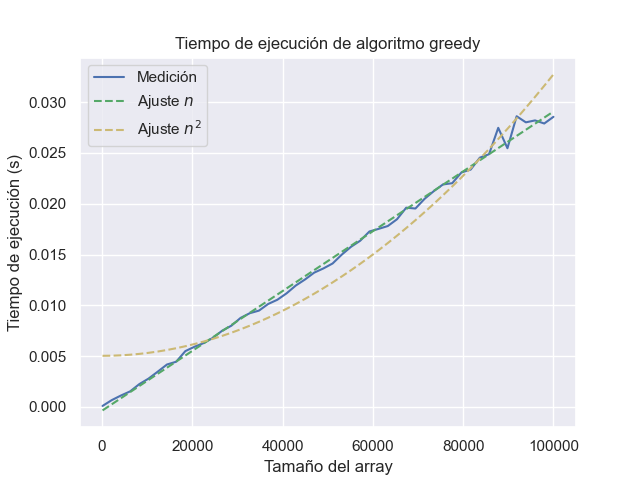
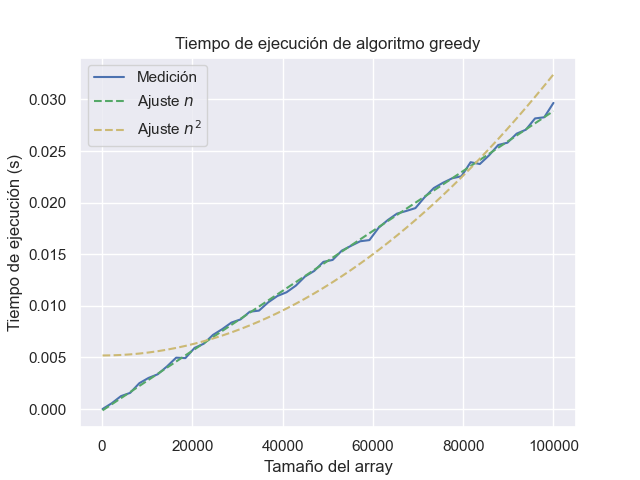
fix a generador de monedas, no pueden ser de valor 0!

diff --git a/src/main/mediciones.py b/src/main/mediciones.py
@@ -12,12 +12,9 @@ from juego_monedas import juego_monedas
 
 
 def get_random_array(size: int):
-    return np.random.randint(0, 50000, size).tolist()
+    return np.random.randint(1, 50000, size).tolist()
 
-
-
-if __name__ == "__main__":
-
+def mediciones_primera_parte_greedy():
     # Siempre seteamos la seed de aleatoridad para que los # resultados sean reproducibles
     seed(12345)
     np.random.seed(12345)
@@ -68,4 +65,7 @@ if __name__ == "__main__":
 
     plt.show()
     fig.savefig('greedy_complejidad_error.png')
+
+if __name__ == "__main__":
+    mediciones_primera_parte_greedy()
 
